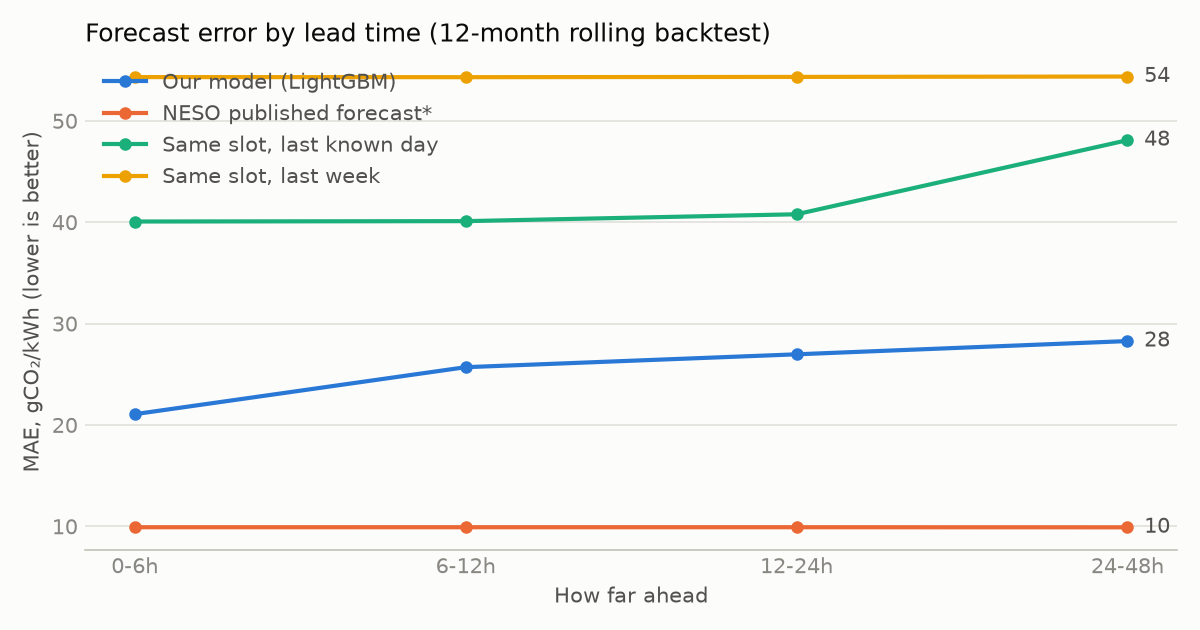
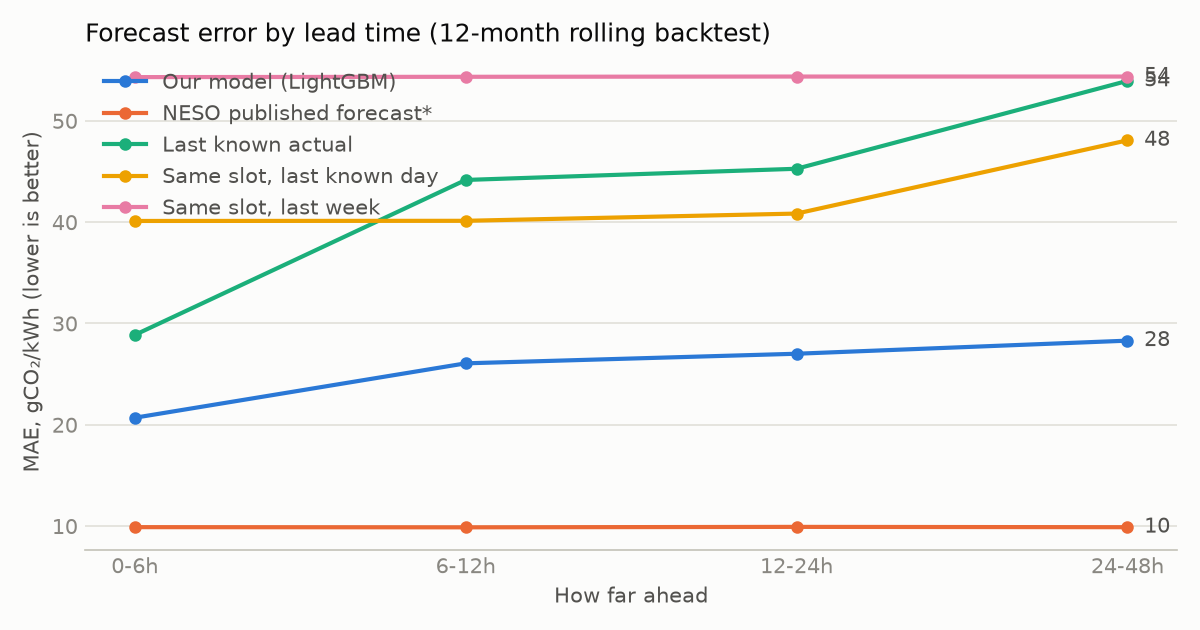
Forecast v2: persistence blend at short leads, persistence baseline in backtest
Live check: 13:30 forecast was ~170 vs actual 86 (last actual 88). Backtest showed raw model
lost to persistence only at 0-2h. Blend weight exp(-(lead-1)/6) tuned on first 6 test months,
held-out 0-2h MAE 19.1 -> 17.0 with overall MAE unchanged.

diff --git a/analysis/backtest.py b/analysis/backtest.py
@@ -18,7 +18,7 @@ from gridcarbon.config import Settings  # noqa: E402
 from gridcarbon.load import connect  # noqa: E402
 
 ROOT = Path(__file__).resolve().parents[1]
-BLUE, ORANGE, AQUA, YELLOW = "#2a78d6", "#eb6834", "#1baf7a", "#eda100"
+BLUE, ORANGE, AQUA, YELLOW, MAGENTA = "#2a78d6", "#eb6834", "#1baf7a", "#eda100", "#e87ba4"
 INK, INK2, MUTED, GRID, AXIS, SURFACE = (
     "#0b0b0b",
     "#52514e",
@@ -33,6 +33,7 @@ grid, wx = fc.load_history(con)
 hols = fc.holidays()
 preds = fc.backtest(grid, wx, hols, months=12)
 methods = {"model": "Our model (LightGBM)", "neso": "NESO published forecast*",
+           "last_actual": "Last known actual",
            "lag_day": "Same slot, last known day", "lag_week": "Same slot, last week"}  # fmt: skip
 table = fc.mae_by_lead(preds, list(methods))
 
@@ -41,7 +42,9 @@ bands = [b for b in table.index if b != "all"]
 fig, ax = plt.subplots(figsize=(8, 4.2), dpi=150)
 fig.patch.set_facecolor(SURFACE)
 ax.set_facecolor(SURFACE)
-for (col, label), colour in zip(methods.items(), (BLUE, ORANGE, AQUA, YELLOW), strict=True):
+for (col, label), colour in zip(
+    methods.items(), (BLUE, ORANGE, AQUA, YELLOW, MAGENTA), strict=True
+):
     ax.plot(bands, table.loc[bands, col], color=colour, linewidth=2, marker="o", markersize=5,
             label=label)  # fmt: skip
     ax.annotate(f"{table.loc[bands[-1], col]:.0f}", (len(bands) - 1, table.loc[bands[-1], col]),
@@ -75,14 +78,16 @@ def md(df: pd.DataFrame) -> str:
 
 
 overall = table.loc["all"]
-best_baseline = overall[["lag_day", "lag_week"]].min()
+best_baseline = overall[["last_actual", "lag_day", "lag_week"]].min()
 md_table = md(table.rename(columns=methods).round(1))
 report = f"""# Forecast backtest
 
 _Generated by `analysis/backtest.py`. {preds["issued_at"].nunique():,} forecasts issued every 6 h
 over the last 12 months, each predicting the next 48 h (96 half-hours): {len(preds):,} predictions._
 
-**Method.** Direct multi-horizon LightGBM: one model, lead time as a feature. Rolling origin: for
+**Method.** Direct multi-horizon LightGBM: one model, lead time as a feature, pulled towards the
+last known actual at short leads (weight exp(-(lead-1)/6), tuned on the first 6 test months only).
+Training issues every 6.5 h, so every half-hour of the day is seen as an issue time. Rolling origin: for
 each test month the model is retrained only on rows whose *targets* fall before the month starts.
 Features use only data available at issue time: actuals end 1 h before issue (publication lag),
 "same slot" lags reach back as many whole days as needed to land on known data, and weather is

diff --git a/src/gridcarbon/forecast.py b/src/gridcarbon/forecast.py
@@ -22,7 +22,10 @@ ACTUAL_LAG = pd.Timedelta(hours=1)  # actuals publish late: never use the last h
 # half-hour of the day. Live runs issue at any half-hour; a fixed 6 h grid left (lead, slot)
 # combinations unseen and skewed live forecasts.
 ISSUE_EVERY = "390min"
-MODEL_VERSION = "lgbm-direct-v1"
+MODEL_VERSION = "lgbm-direct-v2"
+# Short leads lean on the last known actual: weight exp(-(lead-1)/6). Decay chosen on the first
+# 6 backtest months, checked on the last 6 (0-2 h MAE 19.1 -> 17.0; overall unchanged).
+PERSISTENCE_DECAY = 6
 FEATURES = [
     "lead", "halfhour_slot", "iso_weekday", "month", "is_holiday",
     "last_actual", "mean_24h", "lag_day", "lag_week",
@@ -114,6 +117,13 @@ def fit(rows: pd.DataFrame):
     return model.fit(rows[FEATURES], rows["y"])
 
 
+def blend(rows: pd.DataFrame, model_pred) -> np.ndarray:
+    """Model forecast, pulled towards the last known actual at short leads (when there is one)."""
+    last = rows["last_actual"].to_numpy(dtype=float)
+    w = np.where(np.isnan(last), 0.0, np.exp(-(rows["lead"].to_numpy() - 1) / PERSISTENCE_DECAY))
+    return w * np.nan_to_num(last) + (1 - w) * np.asarray(model_pred)
+
+
 def training_rows(grid: pd.DataFrame, wx: pd.DataFrame, hols: set, until) -> pd.DataFrame:
     """Rows whose targets all lie before `until` (issues stop 48 h earlier)."""
     start = max(grid.index.min() + pd.Timedelta(days=8), wx.index.min())
@@ -129,7 +139,7 @@ def backtest(grid: pd.DataFrame, wx: pd.DataFrame, hols: set, months: int = 12) 
     for fold_start, fold_end in zip(folds[:-1], folds[1:], strict=True):
         model = fit(training_rows(grid, wx, hols, fold_start))
         test = features(grid, wx, issue_times(fold_start, fold_end - STEP), hols)
-        out.append(test.assign(model=model.predict(test[FEATURES])))
+        out.append(test.assign(model=blend(test, model.predict(test[FEATURES]))))
     return pd.concat(out, ignore_index=True).dropna(subset=["y"])
 
 
@@ -162,7 +172,7 @@ def predict_live(con, now: datetime) -> pd.DataFrame:
             "issued_at": rows["issued_at"],
             "period_from": rows["period_from"],
             "lead": rows["lead"],
-            "yhat": model.predict(rows[FEATURES]),
+            "yhat": blend(rows, model.predict(rows[FEATURES])),
             "model_version": MODEL_VERSION,
         }
     )

diff --git a/tests/test_forecast.py b/tests/test_forecast.py
@@ -49,6 +49,14 @@ def test_lag_day_is_the_most_recent_known_same_slot():
     assert rows.loc[96, "lag_day"] == rows.loc[96, "y"] - 144
 
 
+def test_blend_trusts_last_actual_at_lead_1_and_model_far_out():
+    rows = pd.DataFrame({"lead": [1, 96, 1], "last_actual": [88.0, 88.0, np.nan]})
+    out = fc.blend(rows, [170.0, 170.0, 170.0])
+    assert out[0] == 88  # lead 1: the last known actual
+    assert out[1] == pytest.approx(170, abs=0.01)  # 48 h out: the model
+    assert out[2] == 170  # no known actual: the model
+
+
 def test_training_issues_cover_every_half_hour_of_the_day():
     # Regression: a fixed 6 h issue grid never trained on live issue times like 13:30.
     issues = fc.issue_times(START, START + pd.Timedelta(days=30))

diff --git a/docs/backtest.md b/docs/backtest.md
@@ -1,28 +1,30 @@
 # Forecast backtest
 
-_Generated by `analysis/backtest.py`. 1,460 forecasts issued every 6 h
-over the last 12 months, each predicting the next 48 h (96 half-hours): 140,160 predictions._
+_Generated by `analysis/backtest.py`. 1,348 forecasts issued every 6 h
+over the last 12 months, each predicting the next 48 h (96 half-hours): 129,408 predictions._
 
-**Method.** Direct multi-horizon LightGBM: one model, lead time as a feature. Rolling origin: for
+**Method.** Direct multi-horizon LightGBM: one model, lead time as a feature, pulled towards the
+last known actual at short leads (weight exp(-(lead-1)/6), tuned on the first 6 test months only).
+Training issues every 6.5 h, so every half-hour of the day is seen as an issue time. Rolling origin: for
 each test month the model is retrained only on rows whose *targets* fall before the month starts.
 Features use only data available at issue time: actuals end 1 h before issue (publication lag),
 "same slot" lags reach back as many whole days as needed to land on known data, and weather is
 Open-Meteo's *historical forecast*, never observed weather. These rules are enforced by
 `tests/test_forecast.py`.
 
-**Result.** Over all leads the model's MAE is **26.7 gCO₂/kWh**, vs
+**Result.** Over all leads the model's MAE is **26.8 gCO₂/kWh**, vs
 **44.3** for the best naïve baseline (**40%
 better**) and **9.9** for NESO's published forecast.
 
 ![MAE by lead](img/backtest_mae_by_lead.png)
 
-|  | Our model (LightGBM) | NESO published forecast* | Same slot, last known day | Same slot, last week |
-| --- | --- | --- | --- | --- |
-| 0-6h | 21.1 | 9.9 | 40.1 | 54.3 |
-| 6-12h | 25.7 | 9.9 | 40.1 | 54.3 |
-| 12-24h | 27 | 9.9 | 40.8 | 54.3 |
-| 24-48h | 28.3 | 9.9 | 48.1 | 54.4 |
-| all | 26.7 | 9.9 | 44.3 | 54.3 |
+|  | Our model (LightGBM) | NESO published forecast* | Last known actual | Same slot, last known day | Same slot, last week |
+| --- | --- | --- | --- | --- | --- |
+| 0-6h | 20.7 | 9.9 | 28.9 | 40.1 | 54.3 |
+| 6-12h | 26.1 | 9.9 | 44.2 | 40.1 | 54.4 |
+| 12-24h | 27 | 9.9 | 45.3 | 40.8 | 54.4 |
+| 24-48h | 28.3 | 9.9 | 53.9 | 48.1 | 54.4 |
+| all | 26.8 | 9.9 | 47.4 | 44.3 | 54.4 |
 
 \* **Read the NESO column with care.** The API only keeps NESO's *final* published forecast for
 each half-hour, not when it was made, so it is likely a short-lead forecast. That makes it a
@@ -38,14 +40,14 @@ at long leads to be somewhat higher than this backtest.
 |  | gain_share |
 | --- | --- |
 | wind_speed | 0.36 |
-| lag_day | 0.163 |
-| last_actual | 0.135 |
+| lag_day | 0.173 |
+| last_actual | 0.123 |
 | lag_week | 0.076 |
 | month | 0.058 |
-| halfhour_slot | 0.052 |
-| temperature | 0.048 |
-| iso_weekday | 0.045 |
+| halfhour_slot | 0.053 |
+| temperature | 0.049 |
+| iso_weekday | 0.046 |
 | solar_radiation | 0.027 |
-| mean_24h | 0.018 |
-| lead | 0.013 |
+| mean_24h | 0.02 |
+| lead | 0.01 |
 | is_holiday | 0.005 |
